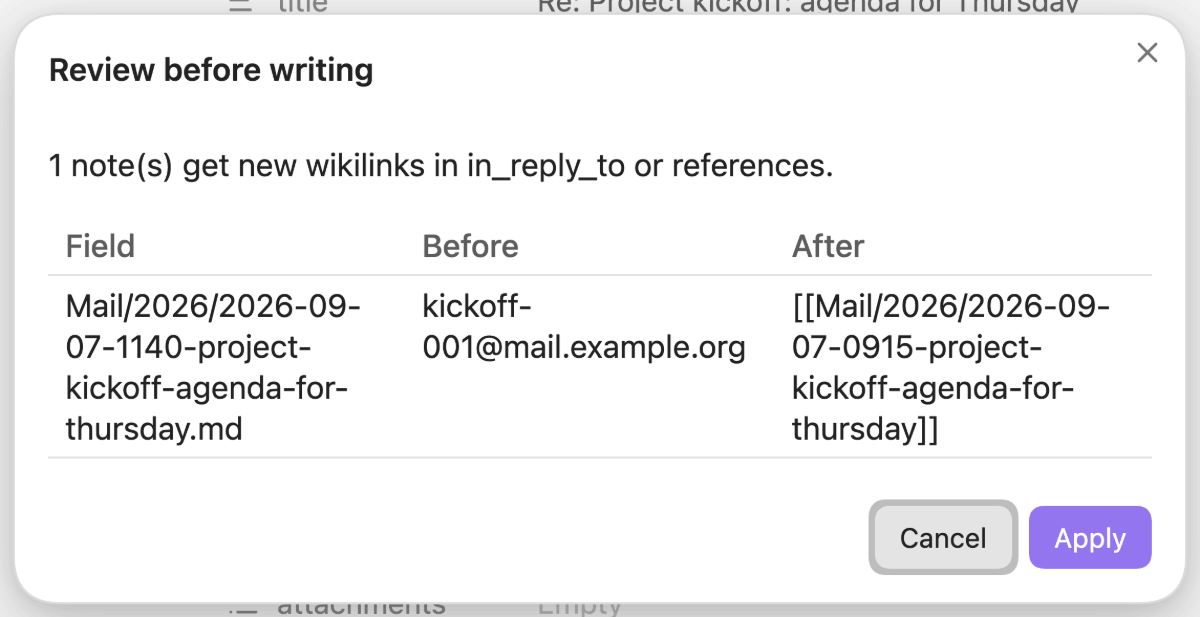
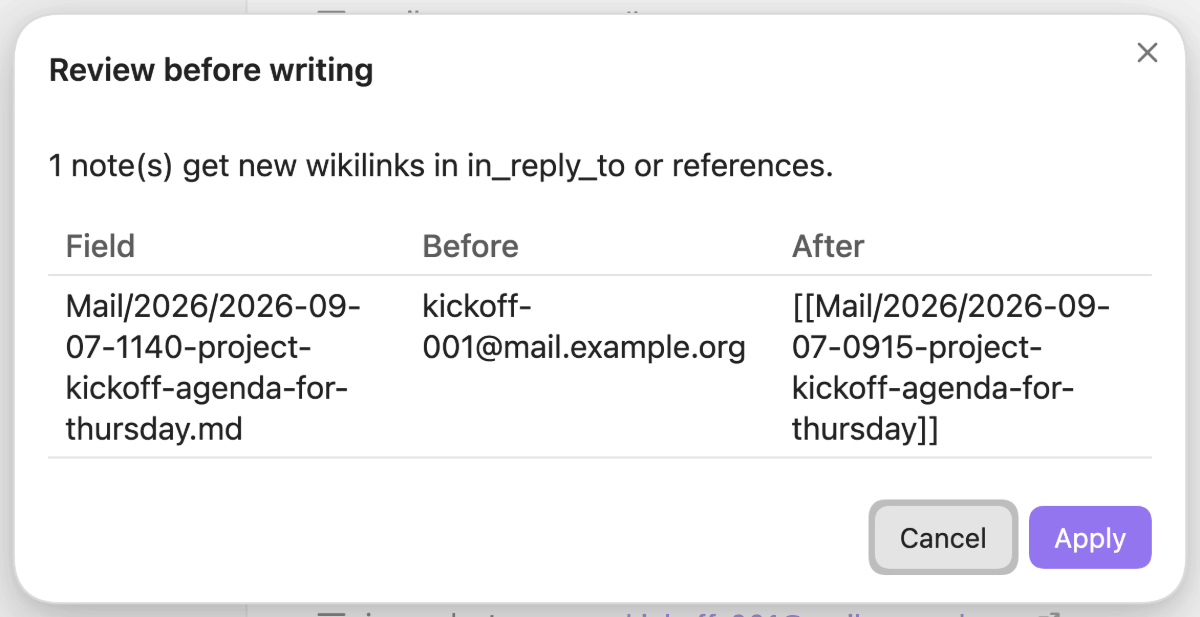
docs(images): relink-preview.png wieder aufnehmbar (Rezept setzt die Antwort auf die rohe Message-ID zurueck), settings.png neu

diff --git a/scripts/shots.ts b/scripts/shots.ts
@@ -99,28 +99,38 @@ async function zustandHerstellen(cdp: Cdp): Promise<void> {
     const fertig = await pollUntil(cdp, `return app.vault.getMarkdownFiles().filter(f => f.path.startsWith("Mail/")).length >= 3 ? true : null;`, 15000, 300);
     if (!fertig) throw new Error("Import lieferte keine drei Notizen");
     await pause(800);
-    // Threads verknuepfen ueber das echte Kommando: der Import allein laesst in_reply_to
-    // als Message-ID stehen, ein Relink macht daraus Wikilinks (Notiz muss offen sein).
-    await openExisting(cdp, await notizPfad(cdp, "-1140-"), "preview");
+    // Die Relink-Vorschau ist ein Motiv. Seit B1 (Welle 36) verknuepft schon der Import die Threads desselben Laufs; damit das
+    // Kommando etwas zu planen hat, setzt das Rezept in der Antwort `in_reply_to` und `references` auf die rohe Message-ID der
+    // Vorgaengerin zurueck (der Zustand, den eine Antwort hat, die vor ihrer Vorgaengerin ankam), und fuehrt dann das echte Kommando aus.
+    const antwort = await notizPfad(cdp, "-1140-");
+    await openExisting(cdp, antwort, "preview");
+    const entknuepft = await cdp.evaluate<boolean>(`
+      const f = app.vault.getAbstractFileByPath(${JSON.stringify(antwort)});
+      const fm = app.metadataCache.getFileCache(f)?.frontmatter ?? {};
+      const roh = (v) => {
+        const link = String(v ?? "").replace(/^\\[\\[|\\]\\]$/g, "").split("|")[0];
+        const ziel = link === "" ? null : app.metadataCache.getFirstLinkpathDest(link, f.path);
+        return ziel ? app.metadataCache.getFileCache(ziel)?.frontmatter?.mail_id ?? null : null;
+      };
+      const vorher = roh(fm.in_reply_to);
+      if (!vorher) return false;
+      await app.fileManager.processFrontMatter(f, (m) => {
+        m.in_reply_to = vorher;
+        if (Array.isArray(m.references)) m.references = m.references.map((r) => roh(r) ?? r);
+      });
+      return true;`);
+    if (!entknuepft) throw new Error("Antwort-Notiz traegt keinen aufloesbaren Link in in_reply_to");
+    await pause(800);
     await cdp.evaluate(`app.commands.executeCommandById("${PLUGIN_ID}:mail-relink"); return true;`);
     const vorschau = await pollUntil(cdp, `return /Review before writing/.test(document.querySelector(".modal")?.textContent ?? "") ? true : null;`, 8000, 200);
-    if (!vorschau && ONLY === "relink-preview.png") throw new Error("Relink-Vorschau erschien nicht");
-    if (!vorschau) {
-      // Seit B1 (Welle 36) verknuepft schon der Import die Threads desselben Laufs; das Kommando hat dann nichts zu planen, und es gibt keine
-      // Vorschau. Die uebrigen Bilder brauchen sie nicht; `relink-preview.png` bleibt, wie es ist (Folgearbeit: ein Zustand mit unverknuepften Notizen).
-      console.log("  Hinweis: keine Relink-Vorschau (der Import hat die Threads schon verknuepft); relink-preview.png wird nicht neu aufgenommen.");
-      await cdp.evaluate(`document.querySelector(".modal")?.querySelector("button")?.click(); return true;`);
+    if (!vorschau) throw new Error("Relink-Vorschau erschien nicht, obwohl die Antwort unverknuepft ist");
+    // Die Vorschau gibt es nur im ersten Lauf nach --setup: danach sind die Threads wieder verknuepft.
+    if (wollen("relink-preview.png")) {
       await pause(600);
-    } else {
-      // Die Vorschau ist selbst ein Motiv, und sie gibt es nur im ersten Lauf nach --setup: danach sind
-      // die Threads verknuepft und das Kommando hat nichts mehr zu planen.
-      if (wollen("relink-preview.png")) {
-        await pause(600);
-        await schreibe(cdp, "relink-preview.png", await boxOf(cdp, ".modal", 6));
-      }
-      await cdp.evaluate(`document.querySelector(".modal .mod-cta").click(); return true;`);
-      await pause(1200);
+      await schreibe(cdp, "relink-preview.png", await boxOf(cdp, ".modal", 6));
     }
+    await cdp.evaluate(`document.querySelector(".modal .mod-cta").click(); return true;`);
+    await pause(1200);
   } else if (ONLY === "relink-preview.png") {
     throw new Error("relink-preview.png braucht den ersten Lauf nach --setup (Threads sind schon verknuepft)");
   }
